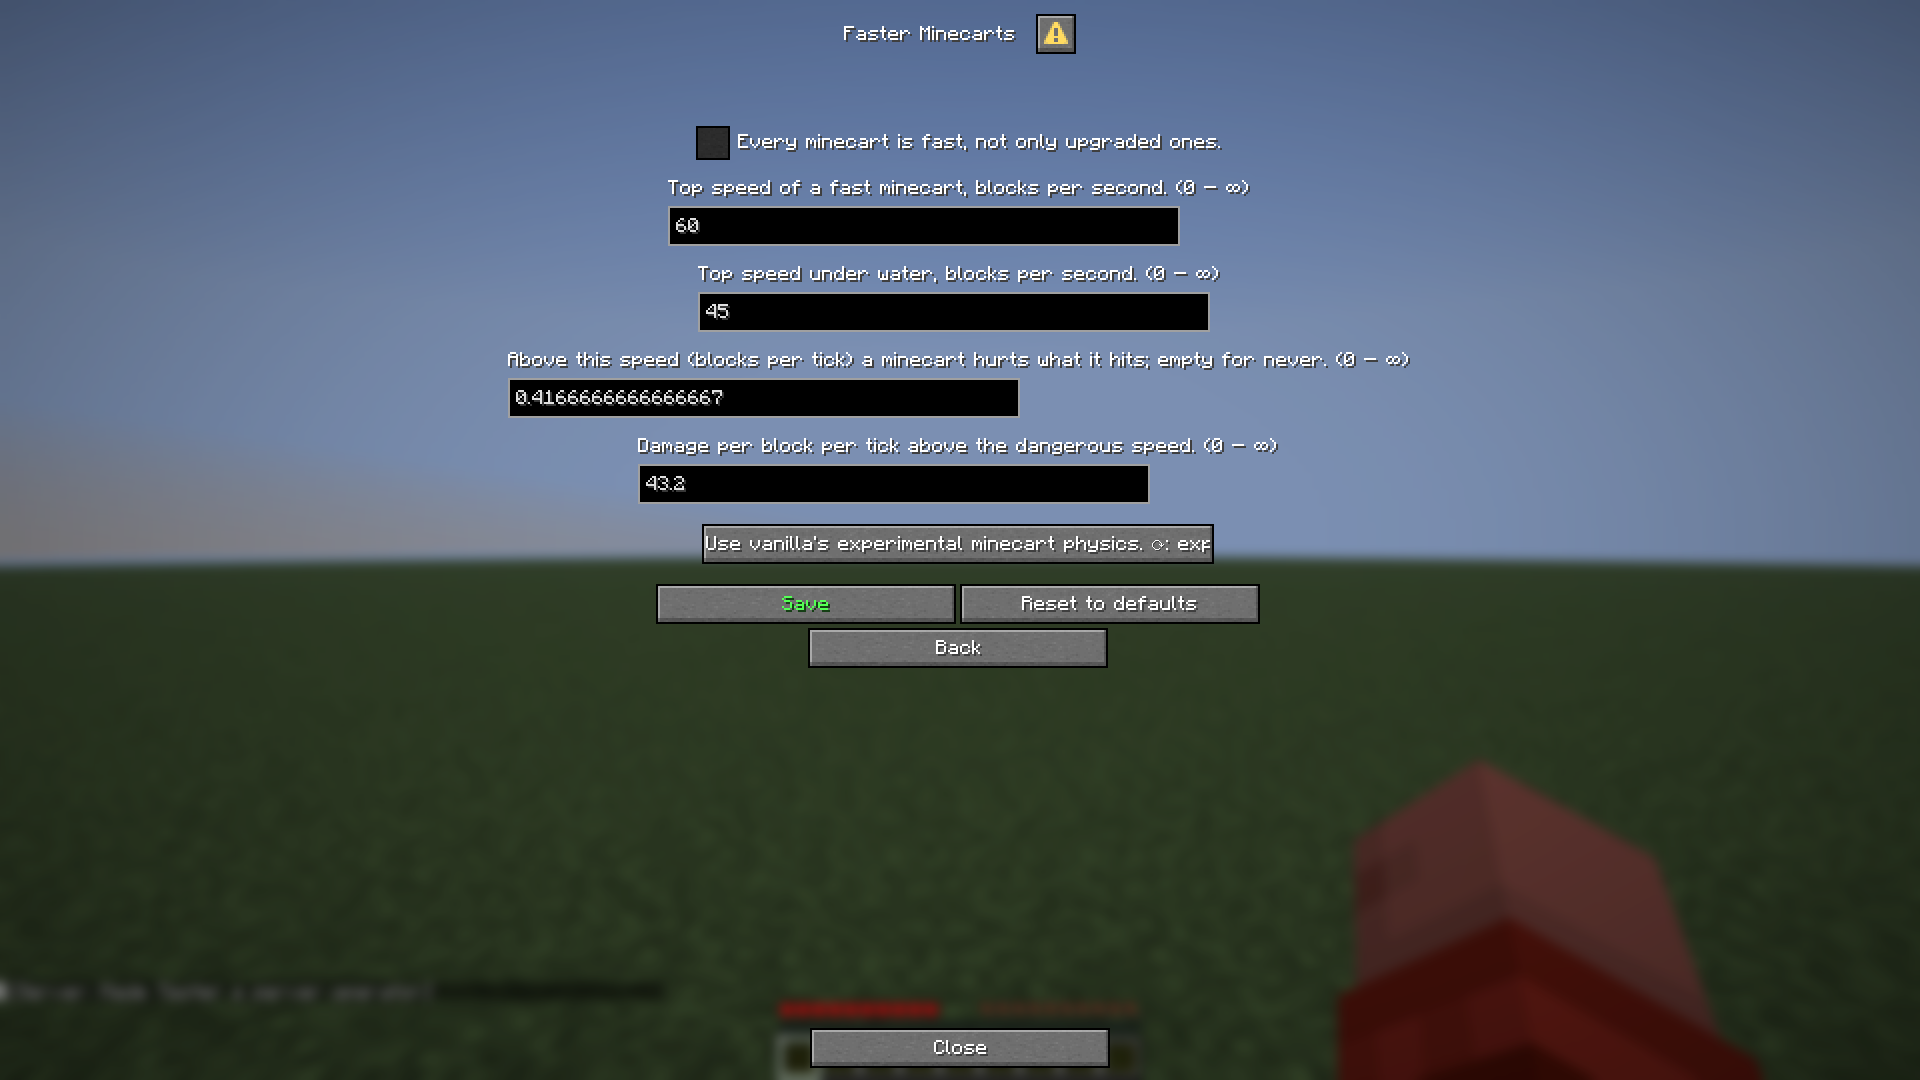
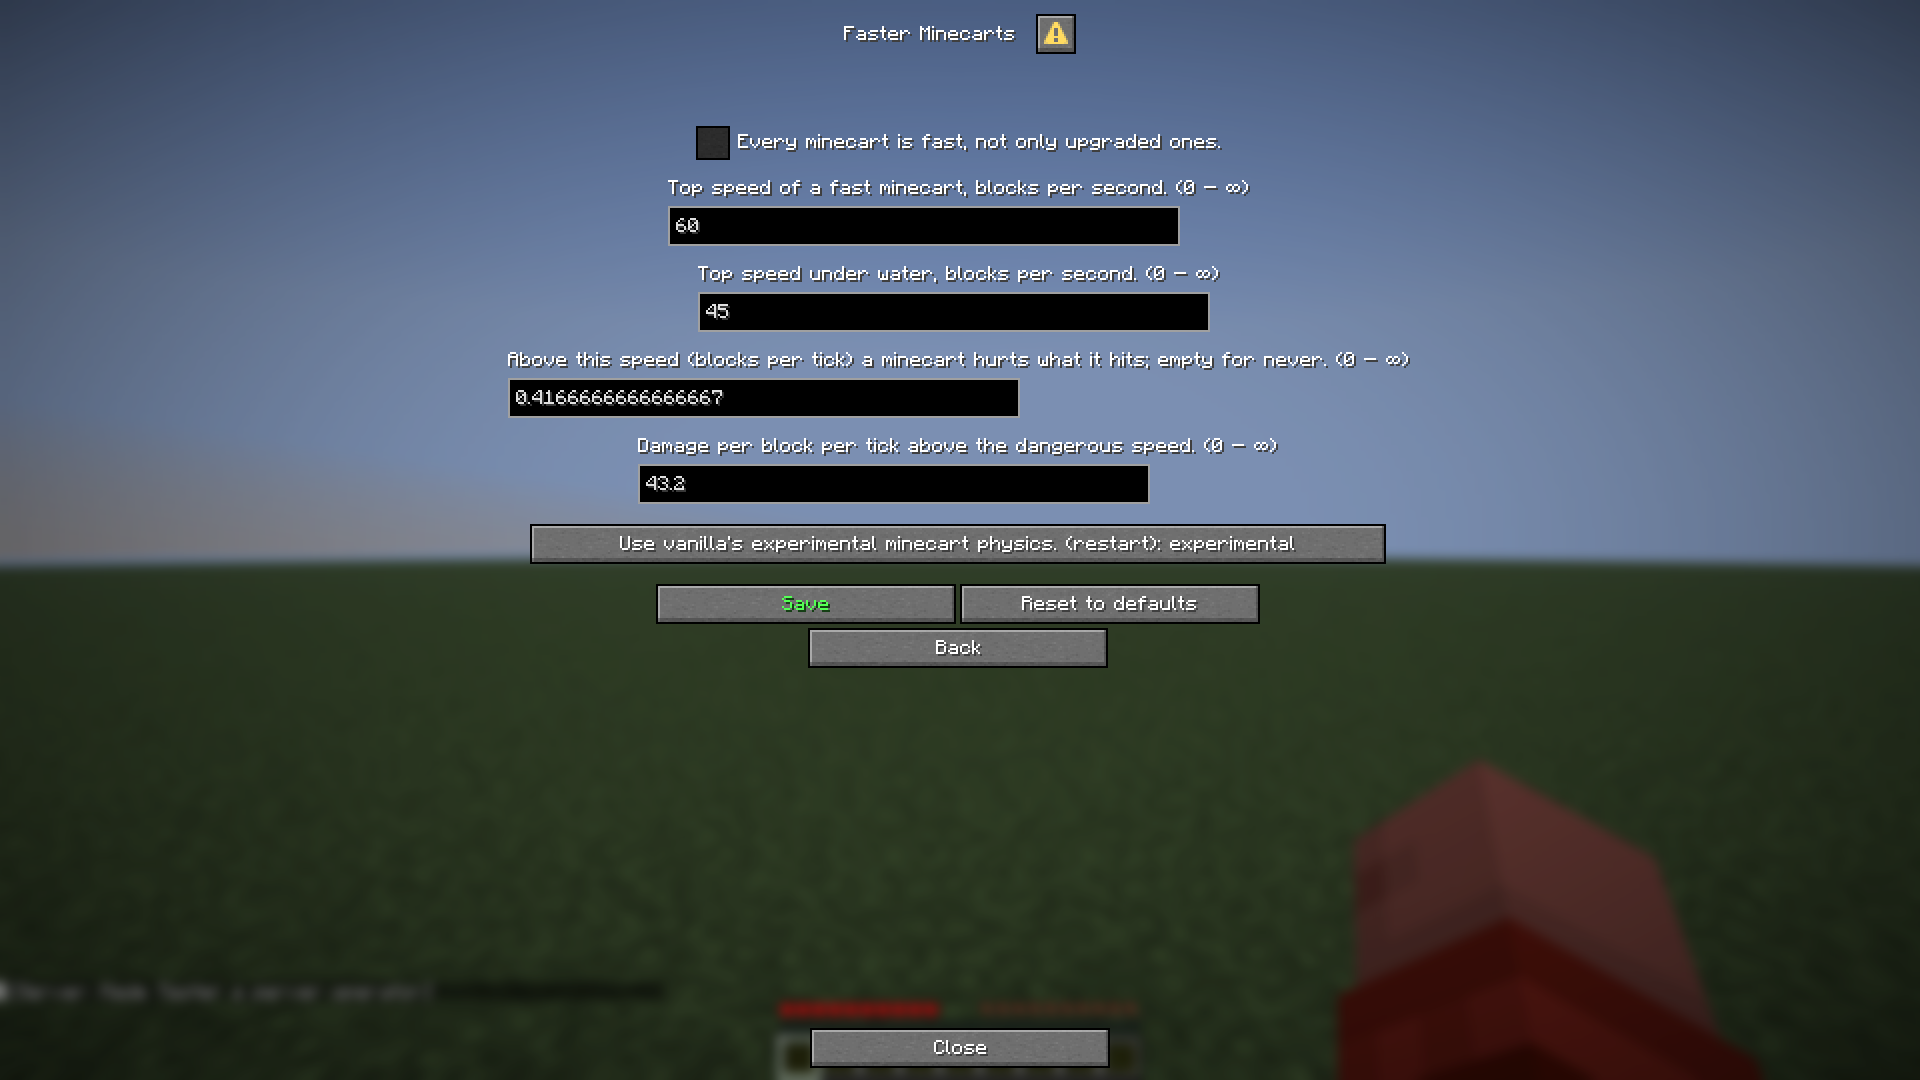
metacraft-config: spell out the restart marker, widen the choice button
Minecraft's font has no ⟳ glyph, so the per-input and per-source restart
marks rendered as a stray "○"; replace them with "(restart)" and
"(restart pending)" text. The CHOICE input's fixed 256px width also
clipped a long label plus value ("... ⟳: exp"); size it to the label and
longest choice instead, clamped to [200, 1024]px. ⚠ was checked in a
screenshot and renders fine as-is.

Changed region(s): [[0.25, 0.4583, 0.7188, 0.5194], [0.8438, 0.0, 1.0, 0.1528], [0.0, 0.0, 0.1562, 0.1528]]

diff --git a/mods/metacraft-config/src/main/java/nu/metacraft/config/screen/Inputs.java b/mods/metacraft-config/src/main/java/nu/metacraft/config/screen/Inputs.java
@@ -4,6 +4,7 @@ import net.minecraft.network.chat.Component;
 import net.minecraft.server.dialog.input.*;
 import nu.metacraft.config.source.Field;
 
+import java.util.List;
 import java.util.Optional;
 
 /** The dialog input for a field. Keys are positional ({@code o0}, {@code o1}, …): option keys may hold characters inputs cannot. */
@@ -17,7 +18,8 @@ public final class Inputs {
 	}
 
 	public static InputControl forField(Field field, String value) {
-		Component label = Component.literal(field.label() + (field.restart() ? " ⟳" : ""));
+		// Vanilla's font has no ⟳; spell the restart marker out instead of drawing a tofu box.
+		Component label = Component.literal(field.label() + (field.restart() ? " (restart)" : ""));
 		return switch (field.kind()) {
 			case BOOLEAN -> new BooleanInput(label, value.equals("true"), "true", "false");
 			case WHOLE, DECIMAL -> field.slider()
@@ -26,12 +28,22 @@ public final class Inputs {
 									Optional.of(clamp(parse(value, (float) field.min()), (float) field.min(), (float) field.max())),
 									Optional.of((float) field.step())))
 					: text(label, value, 64);
-			case CHOICE -> new SingleOptionInput(WIDTH, field.choices().stream()
+			case CHOICE -> new SingleOptionInput(choiceWidth(label, field.choices()), field.choices().stream()
 					.map(choice -> new SingleOptionInput.Entry(choice, Optional.empty(), choice.equals(value))).toList(), label, true);
 			case TEXT_LIST, IDENTIFIER_LIST -> new TextInput(LIST_WIDTH, label, true, truncate(value, 8192), 8192,
 					Optional.of(new TextInput.MultilineOptions(Optional.of(8), Optional.empty())));
 			default -> text(label, value, 1024);
 		};
+	}
+
+	// The button draws "<label>: <chosen value>"; a fixed narrow width clips both. About 6 GUI px
+	// per character plus 20 px of padding, clamped to a sane range, fits the label beside the
+	// longest choice so the button's text does not get cut off.
+	private static int choiceWidth(Component label, List<String> choices) {
+		int longest = 0;
+		for (String choice : choices) longest = Math.max(longest, choice.length());
+		int contentLength = label.getString().length() + 2 + longest;
+		return Math.max(200, Math.min(1024, 20 + 6 * contentLength));
 	}
 
 	private static TextInput text(Component label, String value, int maxLength) {

diff --git a/mods/metacraft-config/src/test/java/TestPages.java b/mods/metacraft-config/src/test/java/TestPages.java
@@ -109,6 +109,21 @@ public class TestPages {
 	}
 
 	@Test
+	public void choiceInputWidensForALongLabelAndStillEncodes() {
+		Field field = new Field("mode", "Use vanilla's experimental minecart physics.", OptionKind.CHOICE, "experimental",
+				0, 0, 0, false, List.of("legacy", "experimental"), true, true);
+		SingleOptionInput input = assertInstanceOf(SingleOptionInput.class, Inputs.forField(field, "experimental"));
+		assertTrue(input.width() >= 400, "width was " + input.width());
+
+		Dialog dialog = new MultiActionDialog(
+				new CommonDialogData(Component.literal("t"), Optional.empty(), true, false, DialogAction.WAIT_FOR_RESPONSE,
+						List.of(), List.of(new Input("o0", input))),
+				List.of(new ActionButton(new CommonButtonData(Component.literal("Close"), 150), Optional.empty())),
+				Optional.empty(), 1);
+		assertEncodes(dialog);
+	}
+
+	@Test
 	public void configPageEncodesWithVanillaCodec(@TempDir Path dir) {
 		assertEncodes(Pages.config(demo(dir), List.of(), Optional.empty(), Map.of()));
 	}

diff --git a/mods/metacraft-config/src/main/java/nu/metacraft/config/screen/Pages.java b/mods/metacraft-config/src/main/java/nu/metacraft/config/screen/Pages.java
@@ -33,7 +33,8 @@ public final class Pages {
 		if (sources.isEmpty()) body.add(message(Component.literal("No configs are described on this server.")));
 		List<ActionButton> buttons = new ArrayList<>();
 		for (ConfigSource source : sources) {
-			String marks = (source.loadError().isPresent() ? " ⚠" : "") + (source.pendingRestart().isEmpty() ? "" : " ⟳");
+			// Vanilla's font has no ⟳; spell the restart marker out instead of drawing a tofu box.
+			String marks = (source.loadError().isPresent() ? " ⚠" : "") + (source.pendingRestart().isEmpty() ? "" : " (restart pending)");
 			buttons.add(button(Component.literal(source.name() + marks), Optional.of(Component.literal(source.description())),
 					OPEN, target(source.id(), List.of())));
 		}
